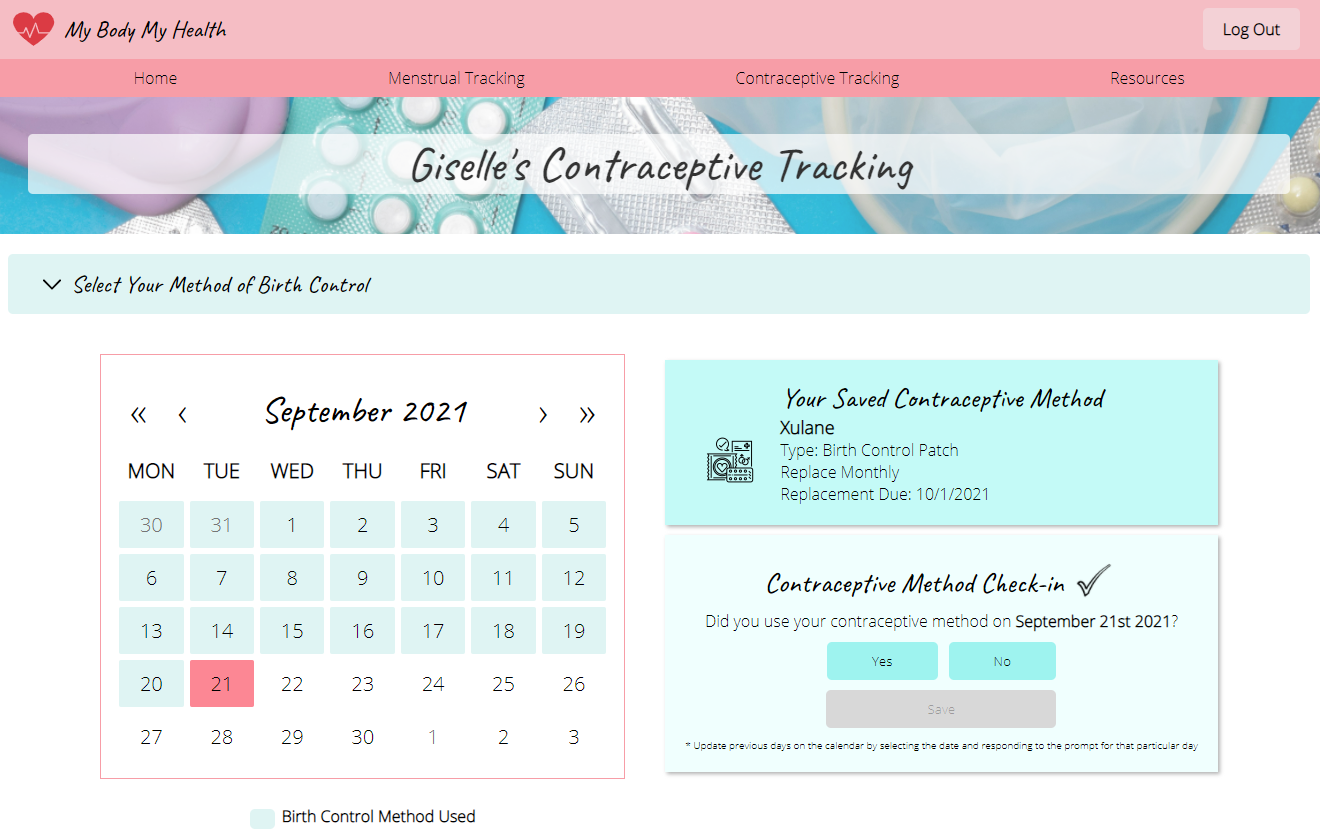
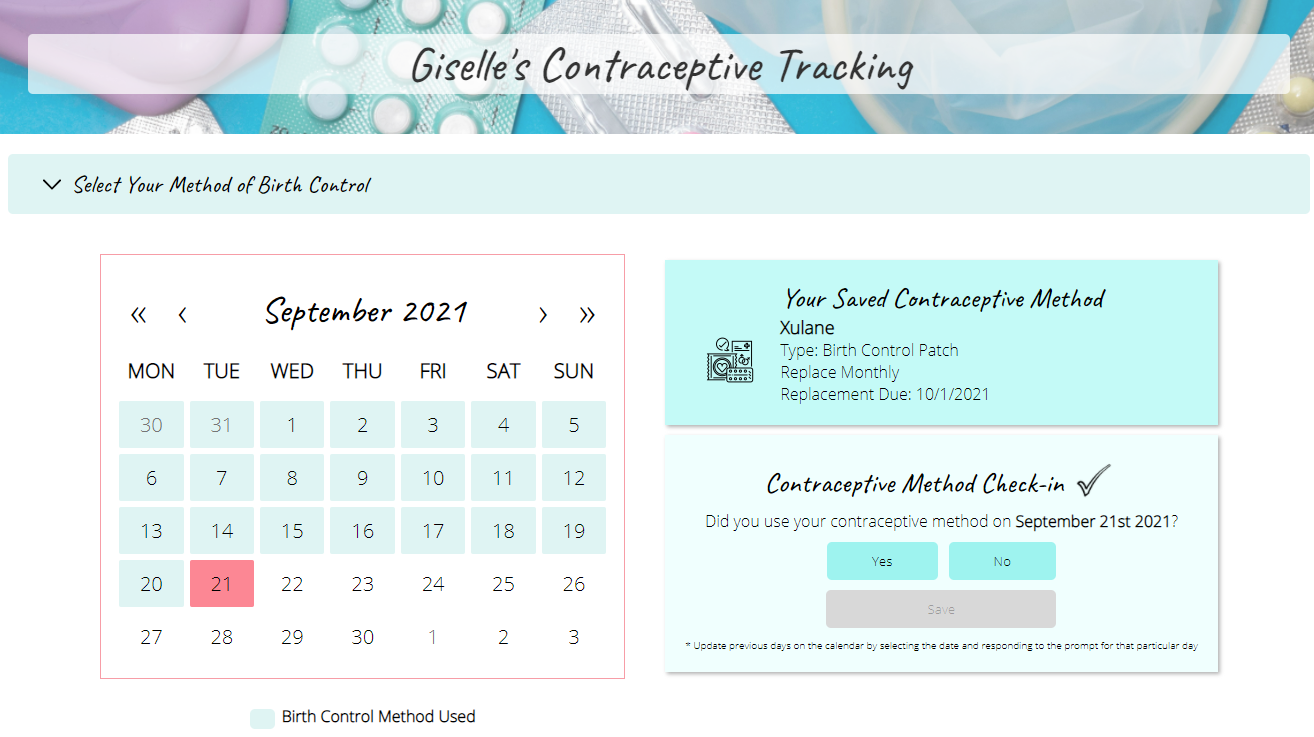
ready to deploy

diff --git a/src/components/BCTracking/BCTracking.jsx b/src/components/BCTracking/BCTracking.jsx
@@ -130,21 +130,18 @@ function BCTracking() {
     axios
       .get(`/api/getLastBCUse/${user_id}`)
       .then((res) => {
-        // console.log(res.data);
+        console.log(res.data);
         let justDates = [];
         let resArray = res.data;
         resArray.map((item) => {
           justDates = [...justDates, item.date_taken];
         });
-        // console.log(justDates);
 
-        justDates.reduce((a, b) => {
-          return new Date(a.MeasureDate) > new Date(b.MeasureDate) ? a : b;
+        let biggest = justDates.reduce((a, b) => {
+          return new Date(a) > new Date(b) ? a : b;
         });
-        console.log(justDates);
-        // console.log(justDates[justDates.length - 2]);
 
-        setLastUse(justDates[justDates.length - 1]);
+        setLastUse(biggest);
       })
       .catch((error) => console.log(error));
 

diff --git a/src/components/BCTracking/BCTracking.module.scss b/src/components/BCTracking/BCTracking.module.scss
@@ -76,7 +76,7 @@
   display: flex;
   flex-direction: column;
   padding: 20px;
-  box-shadow: rgb(177, 177, 177) 2px 2px 4px;
+  box-shadow: rgb(221, 221, 221) 2px 2px 4px;
 
   img {
     width: 50px;
@@ -111,7 +111,7 @@
   display: flex;
   flex-direction: column;
   padding: 20px 20px 20px 20px;
-  box-shadow: rgb(177, 177, 177) 2px 2px 4px;
+  box-shadow: rgb(221, 221, 221) 2px 2px 4px;
   margin-top: 10px;
   margin-bottom: 50px;
   form {

diff --git a/src/App.scss b/src/App.scss
@@ -25,7 +25,6 @@ a {
   abbr {
     text-decoration: none;
   }
-  // font-style: ;
 }
 .react-calendar__month-view__days__day--weekend {
   color: black !important;
